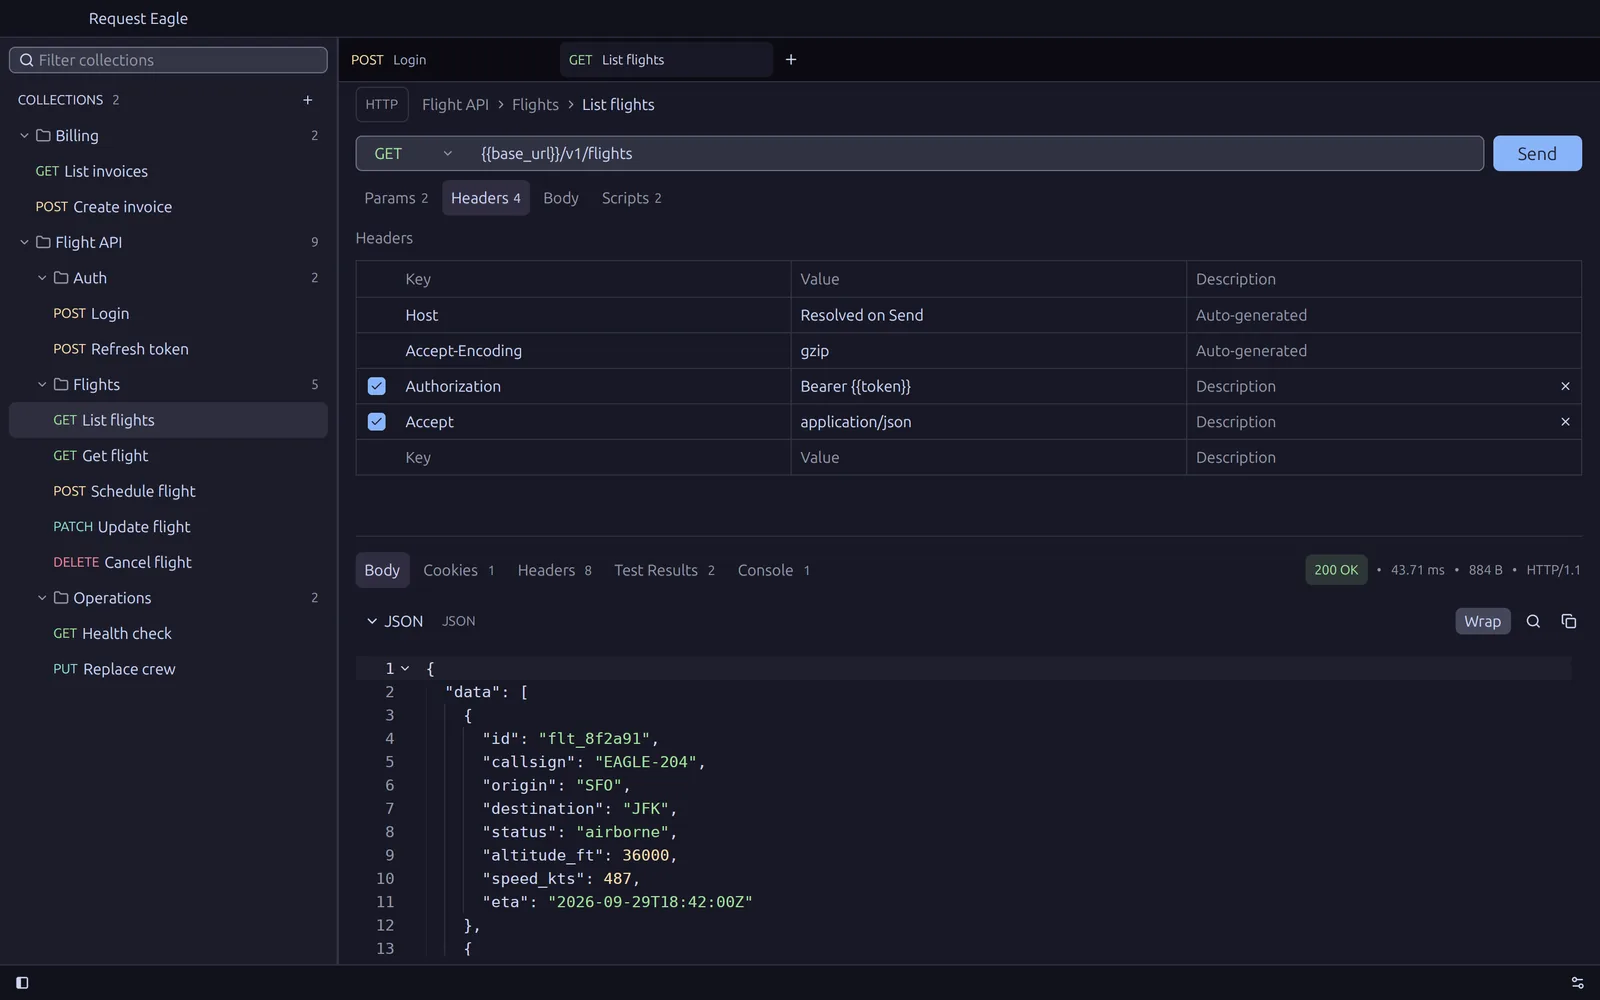
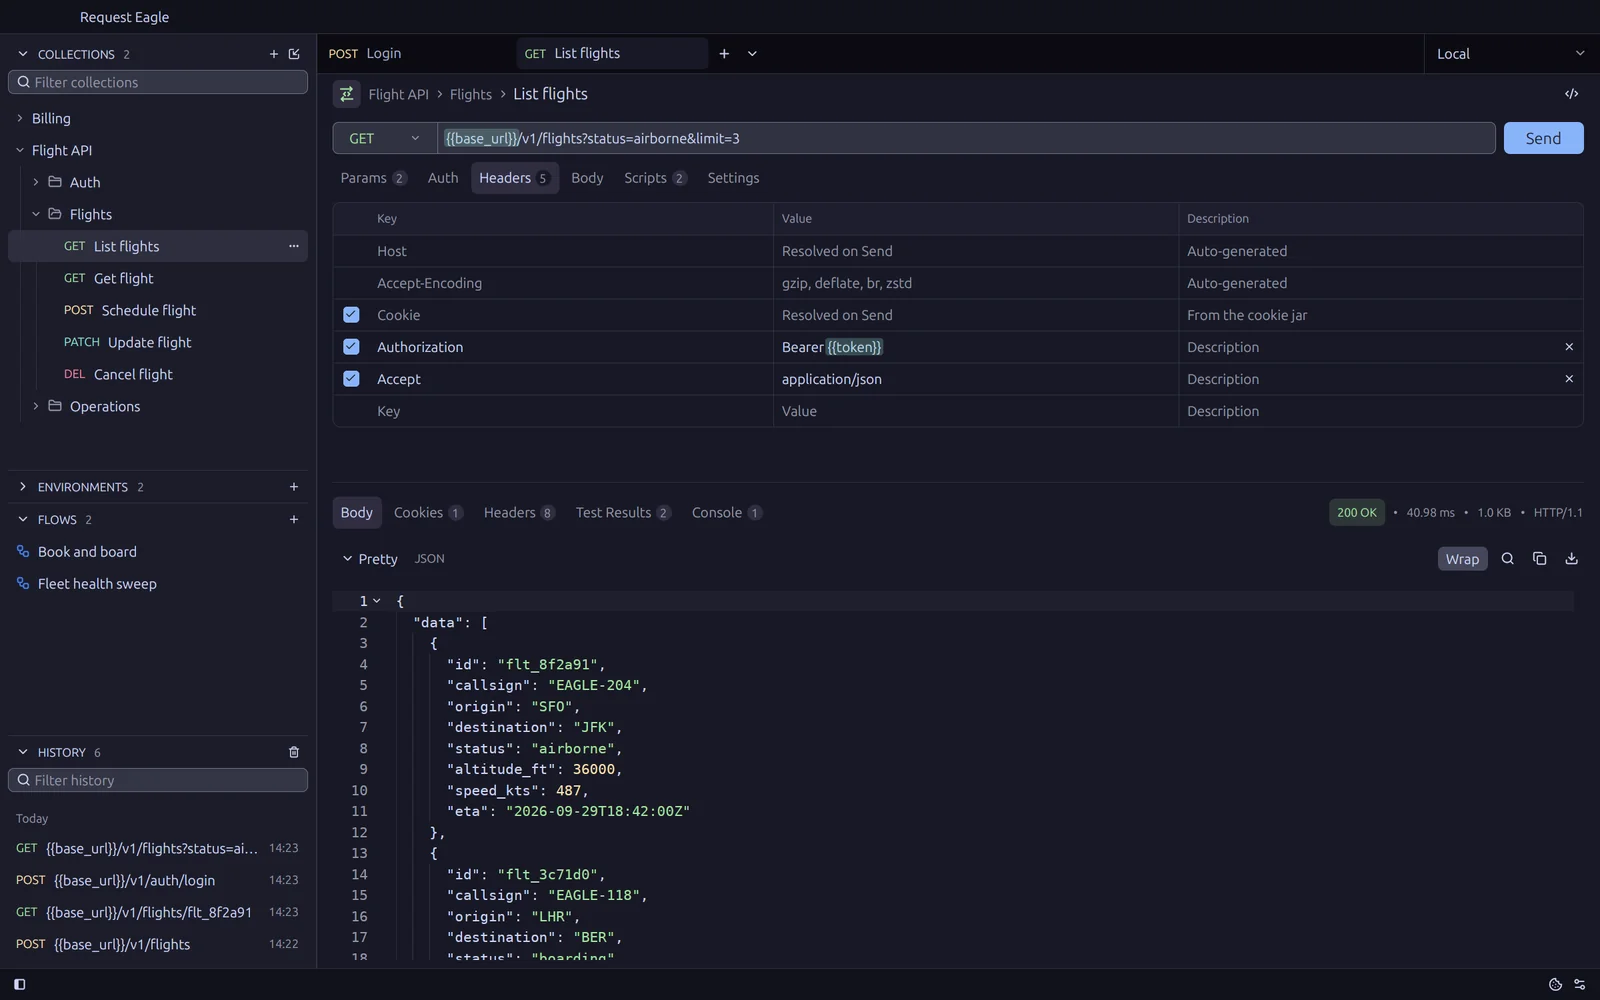
Show the current interface in the landing's hero and theme picker
Recapture the hero and the seven theme picker shots from v0.1.22, with the
sidebar's collections, flows and history, the environment picker and the
Auth and Settings tabs.

diff --git a/docs/landing.md b/docs/landing.md
@@ -92,11 +92,12 @@ outside them is drawn at the nearest weight or width the file has.
 
 ## Screenshots
 
-`src/assets/shots/` holds captures of the real app (v0.1.15) running a demo
-"Flight API" collection against a local mock server. They come from the Linux
-build, so the page draws the macOS window controls over the title bar in CSS
-(`.window__lights`). Replace them with macOS captures when available. Shortcuts
-in the copy use the macOS modifier (⌘).
+`src/assets/shots/` holds captures of the real app running a demo
+"Flight API" collection against a local mock server. The hero and the theme
+picker show v0.1.22; the feature crops show v0.1.15. They come from the Linux
+build with the macOS title bar layout, so the page draws the macOS window
+controls over the title bar in CSS (`.window__lights`). Replace them with macOS
+captures when available. Shortcuts in the copy use the macOS modifier (⌘).
 
 The build resizes each capture to several widths, as AVIF with a WebP
 fallback, and the page picks one by the `sizes` set in `index.astro`. Keep
